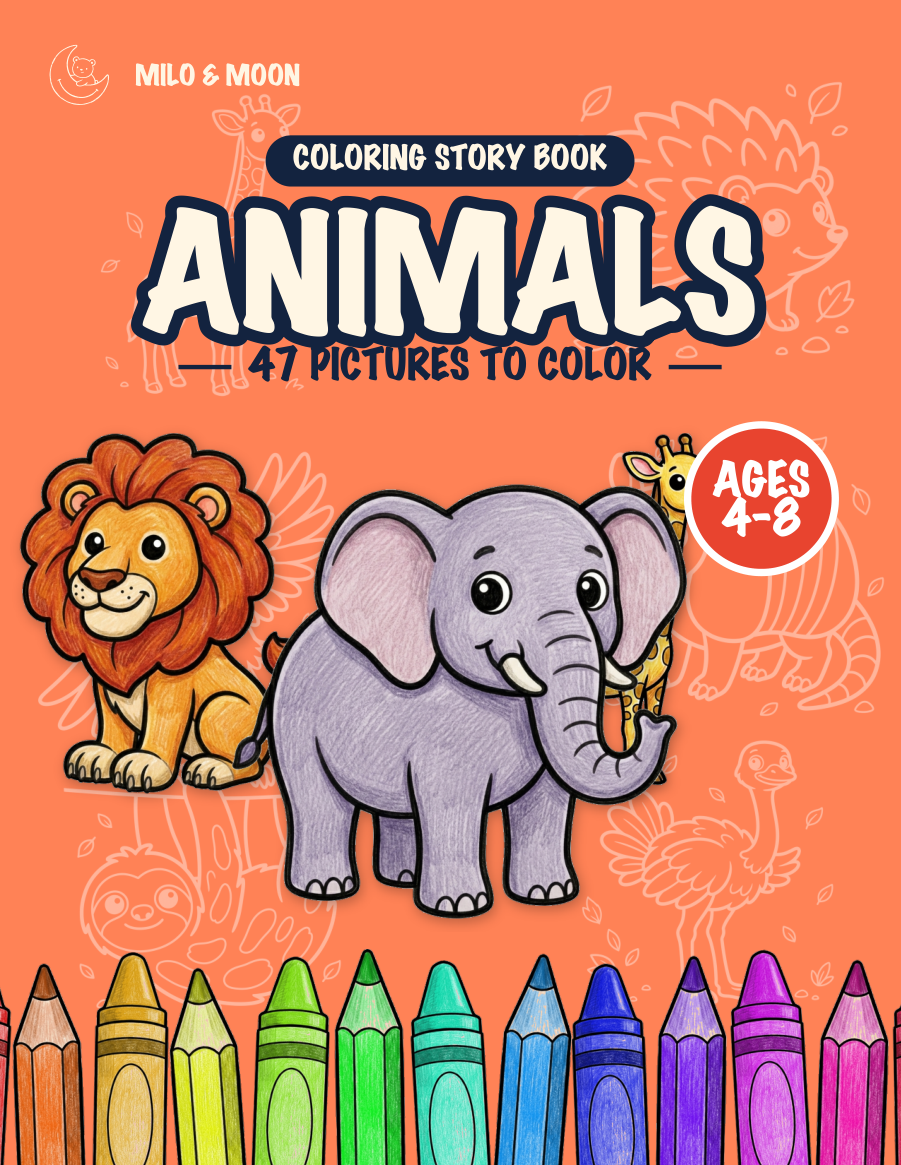
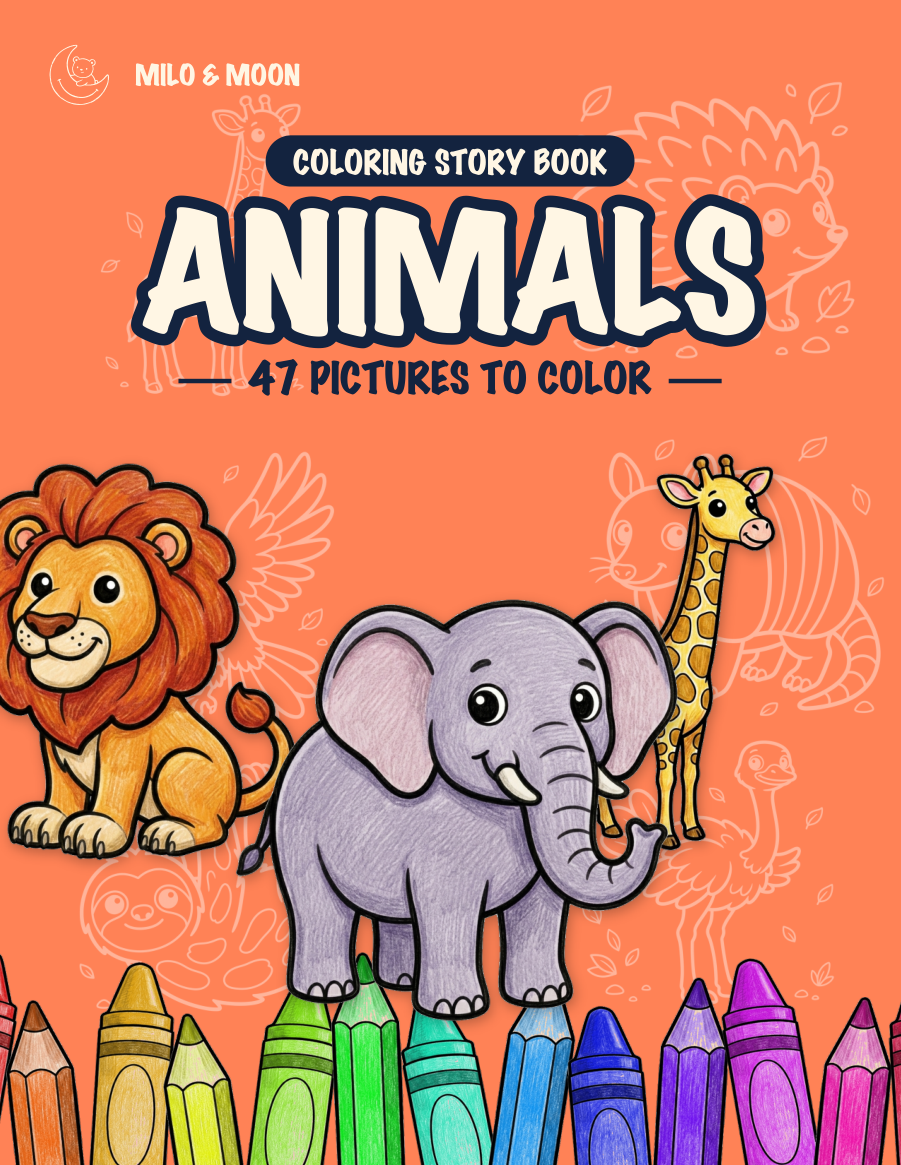
Colour-in page grouped by book; new cover art across all titles
- /colours and /colors now group finished pages under each book's cover,
  so a reader arriving from the QR code inside a title can see which book
  they are looking at. The list is data, so books two and three drop in
  underneath without touching the template.
- The three examples are now the train, boat and monster truck. They used
  to be the digger, tipper and fire engine — the three on the front cover
  — so a reader who scanned the code met the same machines they were
  already holding. None of the eight coloured characters now repeats.
- Published assets are JPEG, not PNG: the source cut-outs are ~1.1MB each
  and shaded pencil artwork is exactly what PNG stores worst. 3422KB -> 505KB.
- Filenames stay `finished-*`. The US localiser rewrites the whole page
  body and cannot tell prose from an attribute, so `coloured-train.png`
  would become `colored-train.png` in the src and 404.
- Cover images refreshed for all titles: age badge removed, claim corrected
  to "100 PAGES - 47 TO COLOUR", characters re-derived from current artwork.

diff --git a/colours/index.html b/colours/index.html
@@ -18,7 +18,7 @@
 <meta property="og:image" content="https://miloandmoon.co.uk/brand/share.png">
 <meta name="twitter:card" content="summary_large_image">
 <meta name="twitter:image" content="https://miloandmoon.co.uk/brand/share.png">
-<link rel="stylesheet" href="/style.css?v=c0bebfac">
+<link rel="stylesheet" href="/style.css?v=7bc2c839">
 <link rel="icon" href="/favicon.ico" sizes="any">
 <link rel="icon" href="/favicon-32.png" type="image/png" sizes="32x32">
 <link rel="apple-touch-icon" href="/apple-touch-icon.png">
@@ -48,22 +48,29 @@
     <p class="lede">Not the right colours &mdash; there aren't any. Just a few
        pages we finished ourselves, in case it helps to see one done.</p>
   </section>
-  <section class="coloured">
-    <figure>
-      <img src="/brand/finished-digger.png" alt="A yellow digger from Vehicles, coloured in"
-           width="520" height="520" loading="lazy">
-      <figcaption>Dig, from <i>Vehicles</i></figcaption>
-    </figure>
-    <figure>
-      <img src="/brand/finished-tipper.jpg" alt="A tipper lorry from Vehicles, coloured in"
-           width="520" height="520" loading="lazy">
-      <figcaption>The tipper lorry</figcaption>
-    </figure>
-    <figure>
-      <img src="/brand/finished-fire-engine.jpg" alt="A fire engine from Vehicles, coloured in"
-           width="520" height="520" loading="lazy">
-      <figcaption>The fire engine</figcaption>
-    </figure>
+  <section class="bookgroup">
+    <div class="bookgroup-head">
+      <img class="bookgroup-cover" src="/books/vehicles/cover-uk.png"
+           alt="The cover of Vehicles" width="150" height="194" loading="lazy">
+      <h2>Vehicles</h2>
+    </div>
+    <div class="coloured">
+      <figure>
+        <img src="/brand/finished-train.jpg" alt="A green steam train from Vehicles, coloured in"
+             width="520" height="520" loading="lazy">
+        <figcaption>The train</figcaption>
+      </figure>
+      <figure>
+        <img src="/brand/finished-boat.jpg" alt="A red tug boat from Vehicles, coloured in"
+             width="520" height="520" loading="lazy">
+        <figcaption>The boat</figcaption>
+      </figure>
+      <figure>
+        <img src="/brand/finished-monster-truck.jpg" alt="A purple monster truck from Vehicles, coloured in"
+             width="520" height="520" loading="lazy">
+        <figcaption>The monster truck</figcaption>
+      </figure>
+    </div>
   </section>
   <section class="soon">
     <p><strong>A purple elephant is a correct elephant.</strong> These are only

diff --git a/colors/index.html b/colors/index.html
@@ -18,7 +18,7 @@
 <meta property="og:image" content="https://miloandmoon.co.uk/brand/share.png">
 <meta name="twitter:card" content="summary_large_image">
 <meta name="twitter:image" content="https://miloandmoon.co.uk/brand/share.png">
-<link rel="stylesheet" href="/style.css?v=c0bebfac">
+<link rel="stylesheet" href="/style.css?v=7bc2c839">
 <link rel="icon" href="/favicon.ico" sizes="any">
 <link rel="icon" href="/favicon-32.png" type="image/png" sizes="32x32">
 <link rel="apple-touch-icon" href="/apple-touch-icon.png">
@@ -48,22 +48,29 @@
     <p class="lede">Not the right colors &mdash; there aren't any. Just a few
        pages we finished ourselves, in case it helps to see one done.</p>
   </section>
-  <section class="colored">
-    <figure>
-      <img src="/brand/finished-digger.png" alt="A yellow digger from Vehicles, colored in"
-           width="520" height="520" loading="lazy">
-      <figcaption>Dig, from <i>Vehicles</i></figcaption>
-    </figure>
-    <figure>
-      <img src="/brand/finished-tipper.jpg" alt="A tipper lorry from Vehicles, colored in"
-           width="520" height="520" loading="lazy">
-      <figcaption>The tipper lorry</figcaption>
-    </figure>
-    <figure>
-      <img src="/brand/finished-fire-engine.jpg" alt="A fire engine from Vehicles, colored in"
-           width="520" height="520" loading="lazy">
-      <figcaption>The fire engine</figcaption>
-    </figure>
+  <section class="bookgroup">
+    <div class="bookgroup-head">
+      <img class="bookgroup-cover" src="/books/vehicles/cover-us.png"
+           alt="The cover of Vehicles" width="150" height="194" loading="lazy">
+      <h2>Vehicles</h2>
+    </div>
+    <div class="colored">
+      <figure>
+        <img src="/brand/finished-train.jpg" alt="A green steam train from Vehicles, colored in"
+             width="520" height="520" loading="lazy">
+        <figcaption>The train</figcaption>
+      </figure>
+      <figure>
+        <img src="/brand/finished-boat.jpg" alt="A red tug boat from Vehicles, colored in"
+             width="520" height="520" loading="lazy">
+        <figcaption>The boat</figcaption>
+      </figure>
+      <figure>
+        <img src="/brand/finished-monster-truck.jpg" alt="A purple monster truck from Vehicles, colored in"
+             width="520" height="520" loading="lazy">
+        <figcaption>The monster truck</figcaption>
+      </figure>
+    </div>
   </section>
   <section class="soon">
     <p><strong>A purple elephant is a correct elephant.</strong> These are only

diff --git a/style.css b/style.css
@@ -172,6 +172,19 @@ h1 em{font-style:normal;color:var(--accent);
 .coloured figure{margin:0}
 .coloured img{width:100%;height:auto;display:block;border-radius:14px;
   background:#fff;border:1px solid rgba(0,0,0,.07)}
+
+/* ── grouped under each book's cover ──────────────────── */
+/* The cover leads the group so a reader arriving from the QR code inside one
+   title can see at a glance which book these pages came from. */
+.bookgroup{margin:40px 0 8px}
+.bookgroup-head{display:flex;align-items:center;gap:18px;
+  padding-bottom:14px;border-bottom:2px solid var(--field)}
+.bookgroup-head h2{margin:0;font-size:clamp(21px,3vw,27px)}
+.bookgroup-cover{width:clamp(64px,9vw,92px);height:auto;display:block;
+  border-radius:5px;box-shadow:0 6px 16px rgba(42,52,64,.22)}
+@media (max-width:430px){
+  .bookgroup-head{gap:13px}
+}
 .coloured figcaption{margin-top:8px;font-size:.9rem;color:var(--muted);
   text-align:center}
 

diff --git a/privacy/index.html b/privacy/index.html
@@ -18,7 +18,7 @@
 <meta property="og:image" content="https://miloandmoon.co.uk/brand/share.png">
 <meta name="twitter:card" content="summary_large_image">
 <meta name="twitter:image" content="https://miloandmoon.co.uk/brand/share.png">
-<link rel="stylesheet" href="/style.css?v=c0bebfac">
+<link rel="stylesheet" href="/style.css?v=7bc2c839">
 <link rel="icon" href="/favicon.ico" sizes="any">
 <link rel="icon" href="/favicon-32.png" type="image/png" sizes="32x32">
 <link rel="apple-touch-icon" href="/apple-touch-icon.png">
@@ -92,7 +92,7 @@
 
     <h2>Changes</h2>
     <p>If this ever stops being true, we will change it here. Last updated
-       17 August 2026.</p>
+       18 August 2026.</p>
   </section>
 
 </main>

diff --git a/books/dinosaurs/index.html b/books/dinosaurs/index.html
@@ -18,7 +18,7 @@
 <meta property="og:image" content="https://miloandmoon.co.uk/books/dinosaurs/cover-uk.png">
 <meta name="twitter:card" content="summary_large_image">
 <meta name="twitter:image" content="https://miloandmoon.co.uk/books/dinosaurs/cover-uk.png">
-<link rel="stylesheet" href="/style.css?v=c0bebfac">
+<link rel="stylesheet" href="/style.css?v=7bc2c839">
 <link rel="icon" href="/favicon.ico" sizes="any">
 <link rel="icon" href="/favicon-32.png" type="image/png" sizes="32x32">
 <link rel="apple-touch-icon" href="/apple-touch-icon.png">

diff --git a/us/books/dinosaurs/index.html b/us/books/dinosaurs/index.html
@@ -18,7 +18,7 @@
 <meta property="og:image" content="https://miloandmoon.co.uk/books/dinosaurs/cover-us.png">
 <meta name="twitter:card" content="summary_large_image">
 <meta name="twitter:image" content="https://miloandmoon.co.uk/books/dinosaurs/cover-us.png">
-<link rel="stylesheet" href="/style.css?v=c0bebfac">
+<link rel="stylesheet" href="/style.css?v=7bc2c839">
 <link rel="icon" href="/favicon.ico" sizes="any">
 <link rel="icon" href="/favicon-32.png" type="image/png" sizes="32x32">
 <link rel="apple-touch-icon" href="/apple-touch-icon.png">

diff --git a/books/vehicles/index.html b/books/vehicles/index.html
@@ -18,7 +18,7 @@
 <meta property="og:image" content="https://miloandmoon.co.uk/books/vehicles/cover-uk.png">
 <meta name="twitter:card" content="summary_large_image">
 <meta name="twitter:image" content="https://miloandmoon.co.uk/books/vehicles/cover-uk.png">
-<link rel="stylesheet" href="/style.css?v=c0bebfac">
+<link rel="stylesheet" href="/style.css?v=7bc2c839">
 <link rel="icon" href="/favicon.ico" sizes="any">
 <link rel="icon" href="/favicon-32.png" type="image/png" sizes="32x32">
 <link rel="apple-touch-icon" href="/apple-touch-icon.png">

diff --git a/us/books/vehicles/index.html b/us/books/vehicles/index.html
@@ -18,7 +18,7 @@
 <meta property="og:image" content="https://miloandmoon.co.uk/books/vehicles/cover-us.png">
 <meta name="twitter:card" content="summary_large_image">
 <meta name="twitter:image" content="https://miloandmoon.co.uk/books/vehicles/cover-us.png">
-<link rel="stylesheet" href="/style.css?v=c0bebfac">
+<link rel="stylesheet" href="/style.css?v=7bc2c839">
 <link rel="icon" href="/favicon.ico" sizes="any">
 <link rel="icon" href="/favicon-32.png" type="image/png" sizes="32x32">
 <link rel="apple-touch-icon" href="/apple-touch-icon.png">

diff --git a/books/animals/index.html b/books/animals/index.html
@@ -18,7 +18,7 @@
 <meta property="og:image" content="https://miloandmoon.co.uk/books/animals/cover-uk.png">
 <meta name="twitter:card" content="summary_large_image">
 <meta name="twitter:image" content="https://miloandmoon.co.uk/books/animals/cover-uk.png">
-<link rel="stylesheet" href="/style.css?v=c0bebfac">
+<link rel="stylesheet" href="/style.css?v=7bc2c839">
 <link rel="icon" href="/favicon.ico" sizes="any">
 <link rel="icon" href="/favicon-32.png" type="image/png" sizes="32x32">
 <link rel="apple-touch-icon" href="/apple-touch-icon.png">

diff --git a/us/books/animals/index.html b/us/books/animals/index.html
@@ -18,7 +18,7 @@
 <meta property="og:image" content="https://miloandmoon.co.uk/books/animals/cover-us.png">
 <meta name="twitter:card" content="summary_large_image">
 <meta name="twitter:image" content="https://miloandmoon.co.uk/books/animals/cover-us.png">
-<link rel="stylesheet" href="/style.css?v=c0bebfac">
+<link rel="stylesheet" href="/style.css?v=7bc2c839">
 <link rel="icon" href="/favicon.ico" sizes="any">
 <link rel="icon" href="/favicon-32.png" type="image/png" sizes="32x32">
 <link rel="apple-touch-icon" href="/apple-touch-icon.png">

diff --git a/colouring-story-books/index.html b/colouring-story-books/index.html
@@ -18,7 +18,7 @@
 <meta property="og:image" content="https://miloandmoon.co.uk/brand/share.png">
 <meta name="twitter:card" content="summary_large_image">
 <meta name="twitter:image" content="https://miloandmoon.co.uk/brand/share.png">
-<link rel="stylesheet" href="/style.css?v=c0bebfac">
+<link rel="stylesheet" href="/style.css?v=7bc2c839">
 <link rel="icon" href="/favicon.ico" sizes="any">
 <link rel="icon" href="/favicon-32.png" type="image/png" sizes="32x32">
 <link rel="apple-touch-icon" href="/apple-touch-icon.png">

diff --git a/index.html b/index.html
@@ -18,7 +18,7 @@
 <meta property="og:image" content="https://miloandmoon.co.uk/brand/share.png">
 <meta name="twitter:card" content="summary_large_image">
 <meta name="twitter:image" content="https://miloandmoon.co.uk/brand/share.png">
-<link rel="stylesheet" href="/style.css?v=c0bebfac">
+<link rel="stylesheet" href="/style.css?v=7bc2c839">
 <link rel="icon" href="/favicon.ico" sizes="any">
 <link rel="icon" href="/favicon-32.png" type="image/png" sizes="32x32">
 <link rel="apple-touch-icon" href="/apple-touch-icon.png">
